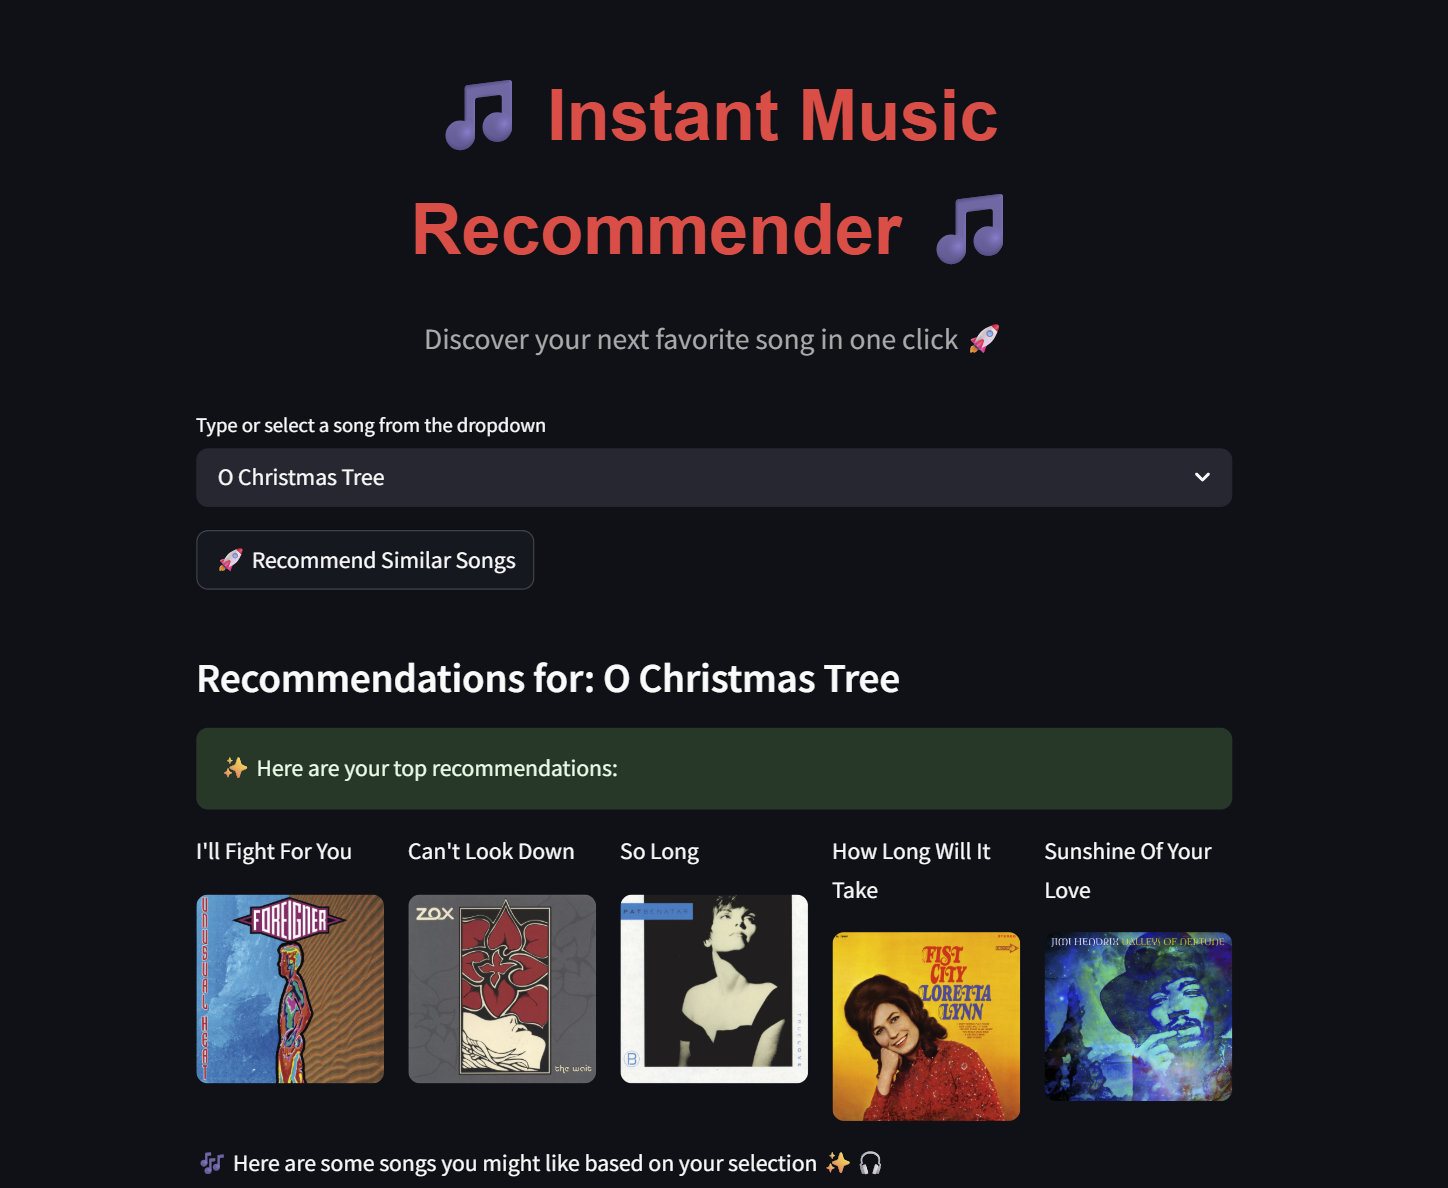
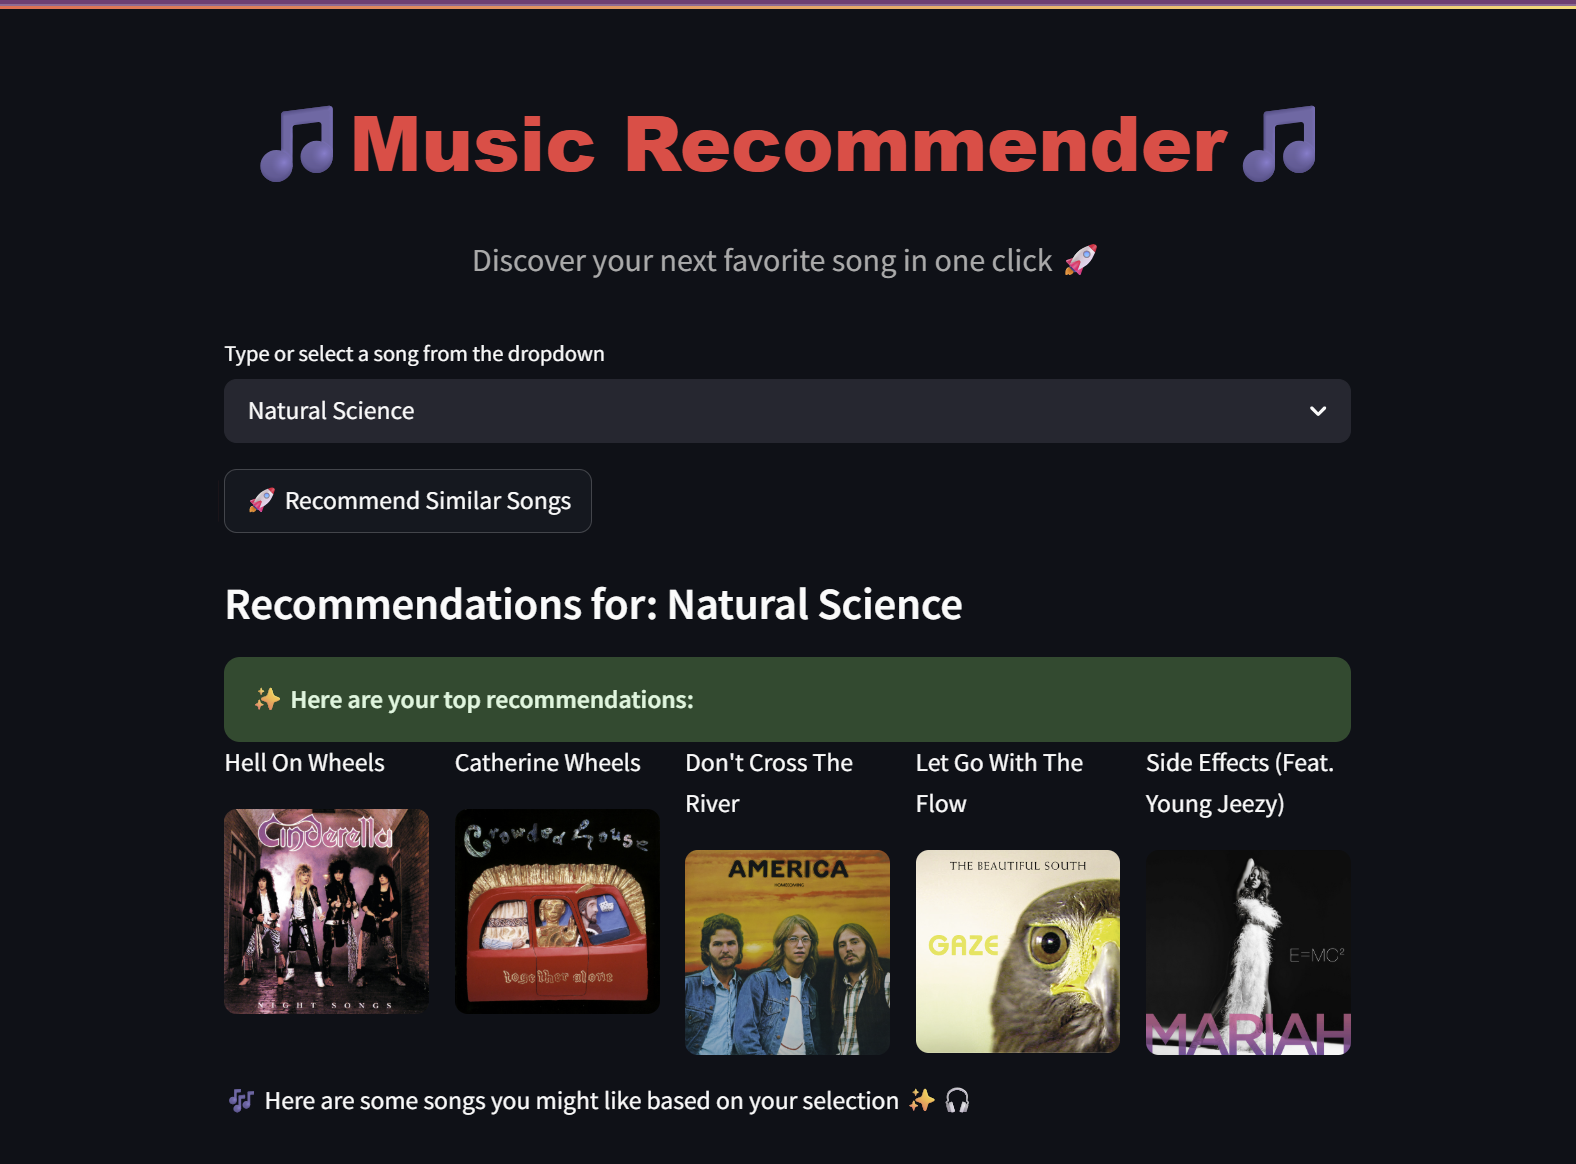
Final commit

diff --git a/main.py b/main.py
@@ -1,21 +1,19 @@
-# main.py — Streamlit app (ready for deployment)
+# main.py — Streamlit UI for deployment only
 
 import os
-import pickle
 import logging
-import requests
-import gdown
-import joblib
 import streamlit as st
 from dotenv import load_dotenv
 import spotipy
 from spotipy.oauth2 import SpotifyClientCredentials
+from src.recommend import download_file, music_list, recommend_songs
 
 # ─────────── Env & Logging ───────────
 load_dotenv()
 logging.basicConfig(level=logging.INFO, format='[%(asctime)s] %(levelname)s - %(message)s')
 
-# Spotify credentials (must be set in environment or .env)
+# Spotify credentials (must be set in environment or .env) 
+# For security I didn't display here. I saved my credentials in .env file.
 CLIENT_ID = os.getenv("SPOTIFY_CLIENT_ID")
 CLIENT_SECRET = os.getenv("SPOTIFY_CLIENT_SECRET")
 
@@ -25,36 +23,7 @@ client_credentials_manager = SpotifyClientCredentials(
 )
 sp = spotipy.Spotify(client_credentials_manager=client_credentials_manager)
 
-# ─────────── Google Drive URLs for pickle files ───────────
-COSINE_URL = "https://drive.google.com/uc?id=1olV8bAon0C4wa5AR0aOnVrfw94olLwzU"
-TFIDF_URL = "https://drive.google.com/uc?id=1Zue6RUi5MSFCu_U_iJMeVEd_kvtSHFFU"
-DF_CLEANED_URL = "https://drive.google.com/uc?id=1RzIEIJ3NEvWPE8LRUqCF5IUlI7gm6XEm"
-
-# --- Kaggle Backup URLs ---
-COSINE_KAGGLE = "https://www.kaggle.com/datasets/sonalikasingh17/pickle-files?select=cosine_sim.pkl"
-TFIDF_KAGGLE ="https://www.kaggle.com/datasets/sonalikasingh17/pickle-files?select=tfidf_matrix.pkl"
-DF_CLEANED_KAGGLE = "https://www.kaggle.com/datasets/sonalikasingh17/pickle-files?select=df_cleaned.pkl"
-
-
-# ─────────── Helpers ───────────
-def download_file(url: str, output: str):
-    """Download a file from Google Drive (via gdown) or generic HTTP."""
-    try:
-        if os.path.exists(output):
-            return
-        if "drive.google.com" in url:
-            gdown.download(url, output, quiet=False, fuzzy=True)
-        else:
-            r = requests.get(url, stream=True, timeout=60)
-            r.raise_for_status()
-            with open(output, "wb") as f:
-                for chunk in r.iter_content(chunk_size=8192):
-                    if chunk:
-                        f.write(chunk)
-    except Exception as e:
-        st.error(f"❌ Failed to download {output}: {e}")
-        raise
-
+# ─────────── Helper ───────────
 def get_song_album_cover_url(song_name: str, artist_name: str) -> str:
     """Fetch album cover from Spotify for given track/artist."""
     try:
@@ -71,7 +40,7 @@ def get_song_album_cover_url(song_name: str, artist_name: str) -> str:
     return "https://i.postimg.cc/0QNxYz4V/social.png"
 
 # ─────────── Streamlit Page Config & Styles ───────────
-st.set_page_config(page_title="Instant Music Recommender 🎶", page_icon="🎧", layout="centered")
+st.set_page_config(page_title="Music Recommender 🎶", page_icon="🎧", layout="centered")
 
 st.markdown(
     """
@@ -102,54 +71,9 @@ st.markdown(
     unsafe_allow_html=True
 )
 
-# Title + subtitle (matches your screenshot copy)
+# Title + subtitle
 st.markdown('<div class="app-title">🎵Music Recommender🎵</div>', unsafe_allow_html=True)
 st.markdown('<div class="subtitle">Discover your next favorite song in one click 🚀</div>', unsafe_allow_html=True)
-
-# ─────────── Ensure pickles exist, then load ───────────
-with st.spinner("Setting things up..."):
-    if not os.path.exists("cosine_sim.pkl"):
-        st.info("📥 Downloading cosine_sim.pkl...")
-        download_file(COSINE_URL, "cosine_sim.pkl")
-
-    if not os.path.exists("tfidf_matrix.pkl"):
-        st.info("📥 Downloading tfidf_matrix.pkl...")
-        download_file(TFIDF_URL, "tfidf_matrix.pkl")
-
-    if not os.path.exists("df_cleaned.pkl"):
-        st.info("📥 Downloading df_cleaned.pkl...")
-        download_file(DF_CLEANED_URL, "df_cleaned.pkl")
-
-try:
-    with open("cosine_sim.pkl", "rb") as f:
-        cosine_sim = joblib.load(f)
-    with open("tfidf_matrix.pkl", "rb") as f:
-        tfidf_matrix = joblib.load(f)
-    with open("df_cleaned.pkl", "rb") as f:
-        df = joblib.load(f)
-except Exception as e:
-    st.error(f"❌ Failed to load model files: {e}")
-    st.stop()
-
-# Song list for dropdown
-music_list = df['song'].dropna().astype(str).values
-
-# ─────────── Recommender ───────────
-def recommend_songs(song_name: str, top_n: int = 5):
-    """Return a DataFrame of top-N similar songs (artist, song)."""
-    logging.info("🎵 Recommending songs for: '%s'", song_name)
-    idx = df[df['song'].str.lower() == song_name.lower()].index
-    if len(idx) == 0:
-        return None
-    idx = idx[0]
-    sim_scores = list(enumerate(cosine_sim[idx]))
-    sim_scores = sorted(sim_scores, key=lambda x: x[1], reverse=True)[1:top_n + 1]
-    song_indices = [i[0] for i in sim_scores]
-
-    result_df = df[['artist', 'song']].iloc[song_indices].reset_index(drop=True)
-    result_df.index = result_df.index + 1
-    result_df.index.name = "S.No."
-    return result_df
 
 # ─────────── UI Controls ───────────
 selected_song = st.selectbox(
@@ -163,16 +87,16 @@ go = st.button("🚀 Recommend Similar Songs")
 # ─────────── Results Section ───────────
 if go:
     with st.spinner("Finding similar songs... 🎧"):
-        rec_df = recommend_songs(selected_song, top_n=5)
+        rec_df, base_song = recommend_songs(selected_song, top_n=5)
 
-    st.subheader(f"Recommendations for: {selected_song}")
+    st.subheader(f"Recommendations for: {base_song}")
 
     if rec_df is None or rec_df.empty:
         st.warning("⚠ Sorry, song not found in dataset.")
     else:
         st.markdown('<div class="success-banner">✨ Here are your top recommendations:</div>', unsafe_allow_html=True)
 
-        # 5 album cards in a row (as in your screenshot)
+        # 5 album cards in a row
         cols = st.columns(5)
         for i, col in enumerate(cols, start=1):
             if i in rec_df.index:
@@ -183,5 +107,5 @@ if go:
                     st.text(song)
                     st.image(cover)
 
-        # Footer line exactly as in your screenshot
+        # Footer line
         st.write("🎶 Here are some songs you might like based on your selection ✨🎧")

diff --git a/src/recommend.py b/src/recommend.py
@@ -35,7 +35,7 @@ def download_file(url, output):
     if not os.path.exists(output):
         try:
             logging.info(f"📥 Downloading {output}...")
-            gdown.download(url, output, quiet=False)
+            gdown.download(url, output, quiet=False, fuzzy=True) 
         except Exception as e:
             logging.error(f"❌ Failed to download {output}: {e}")
             raise e
